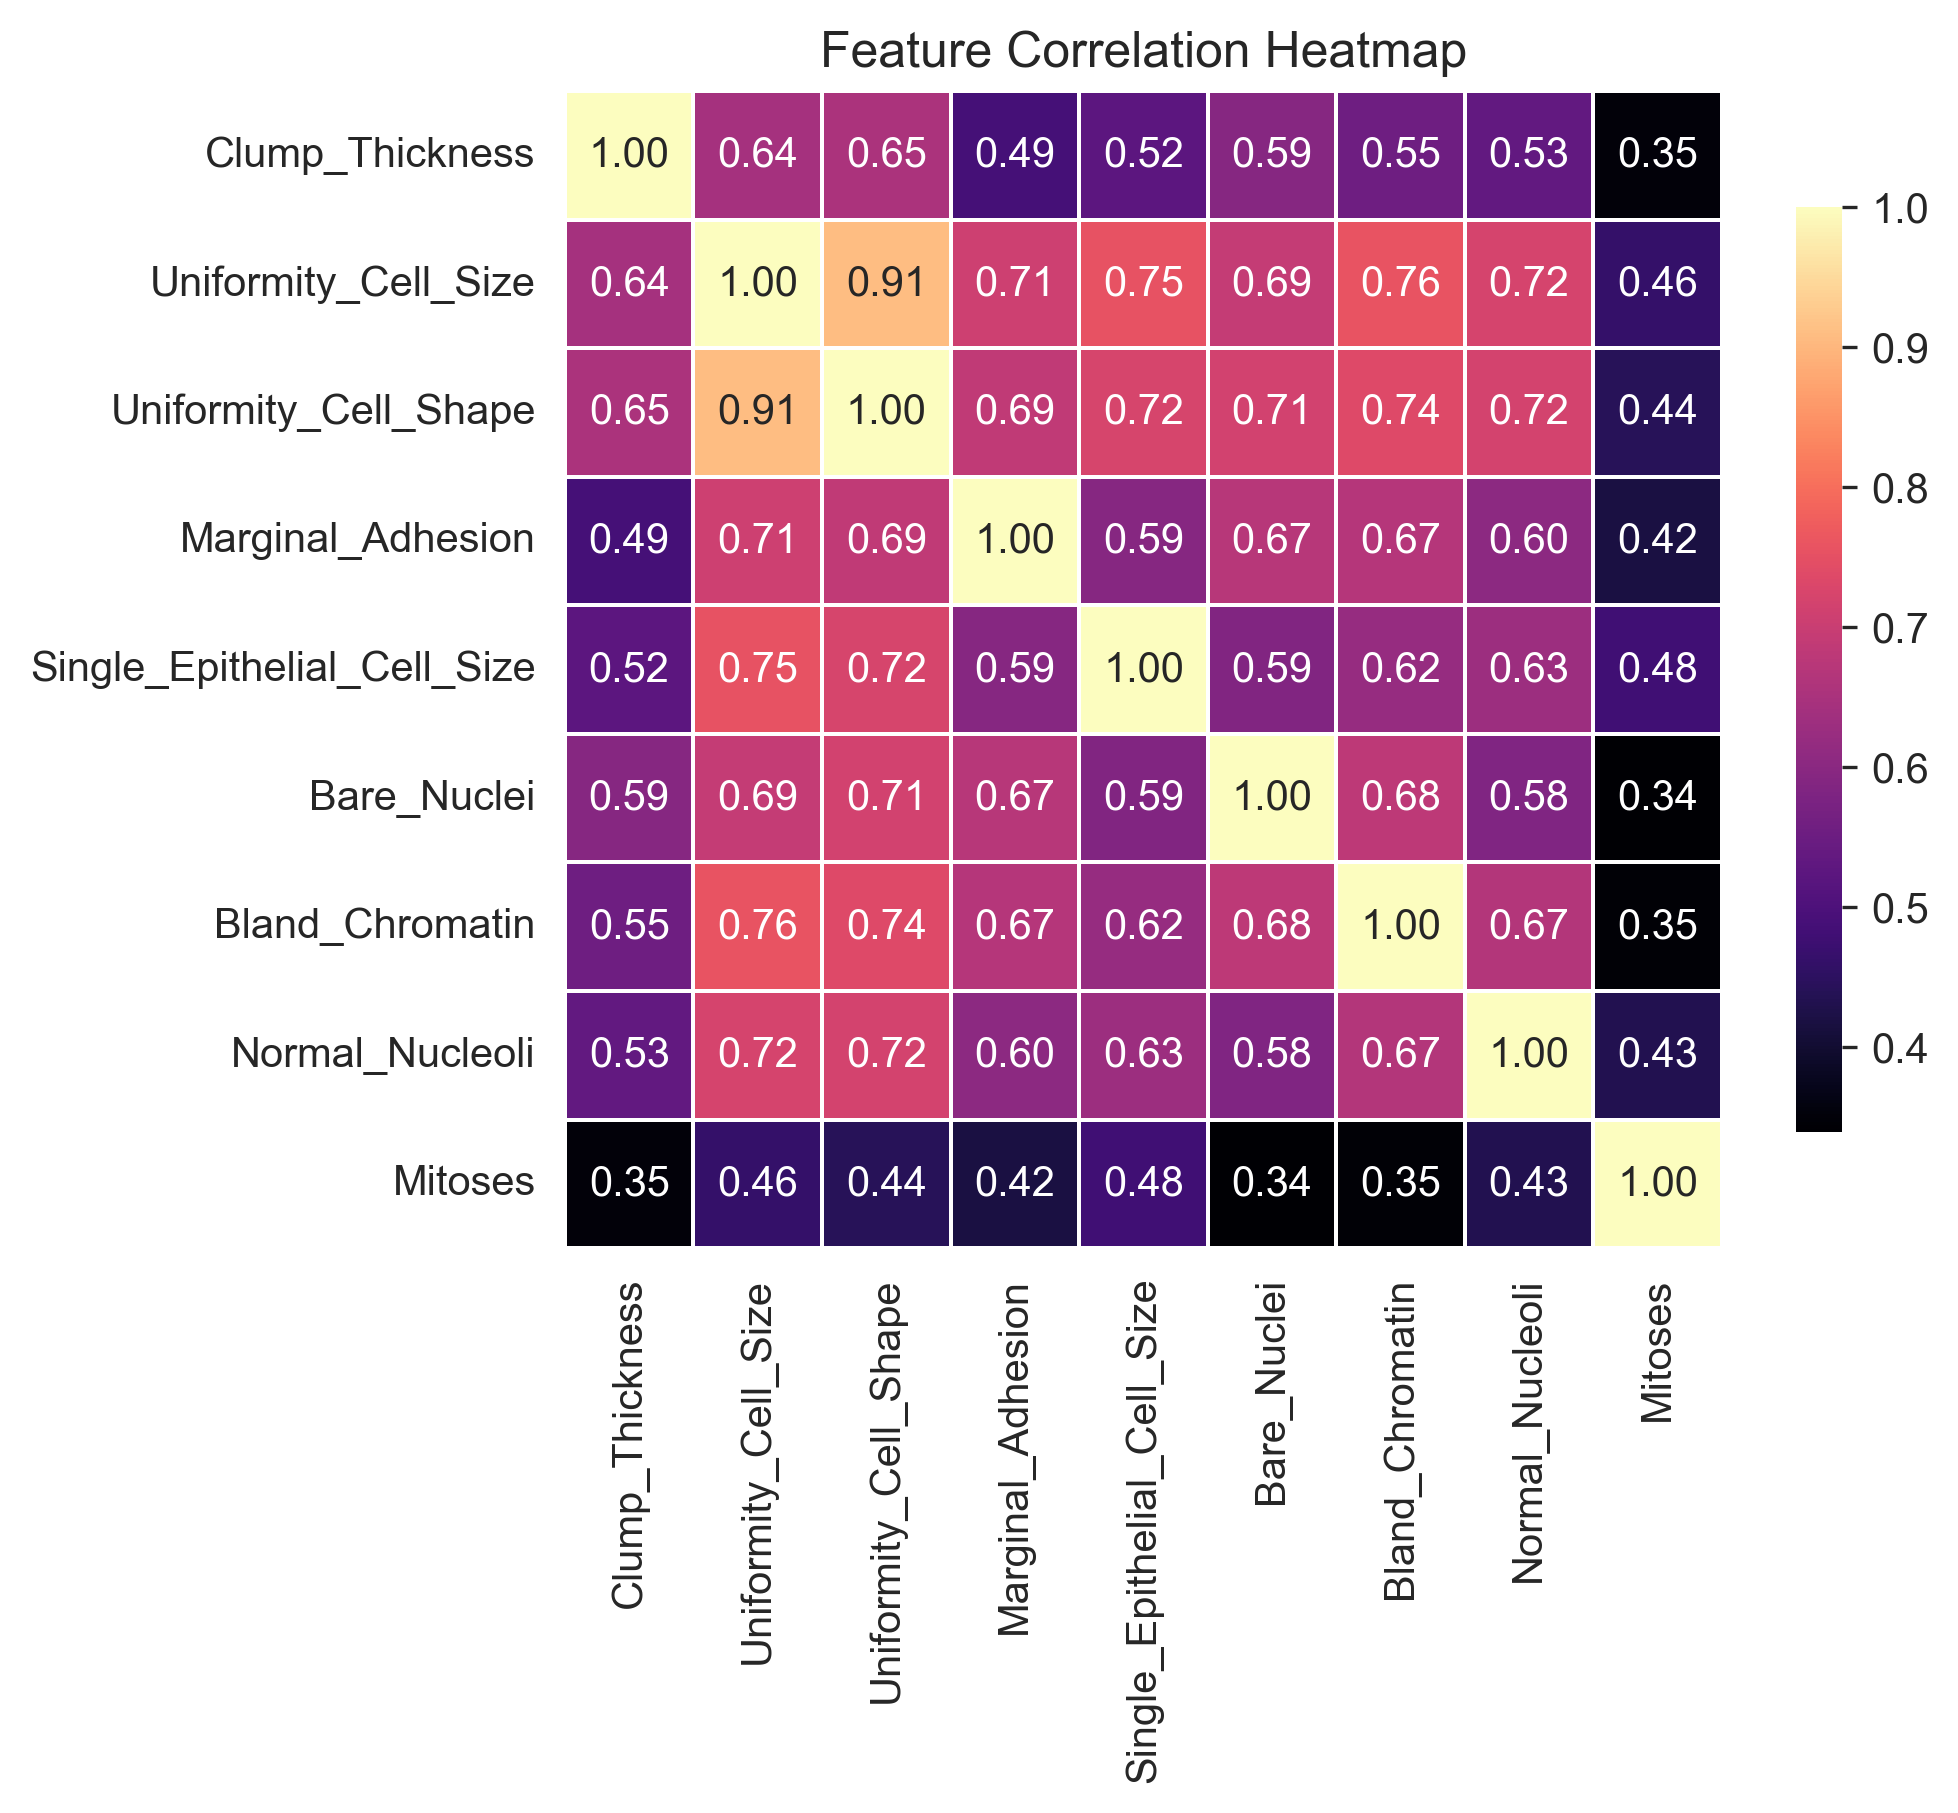
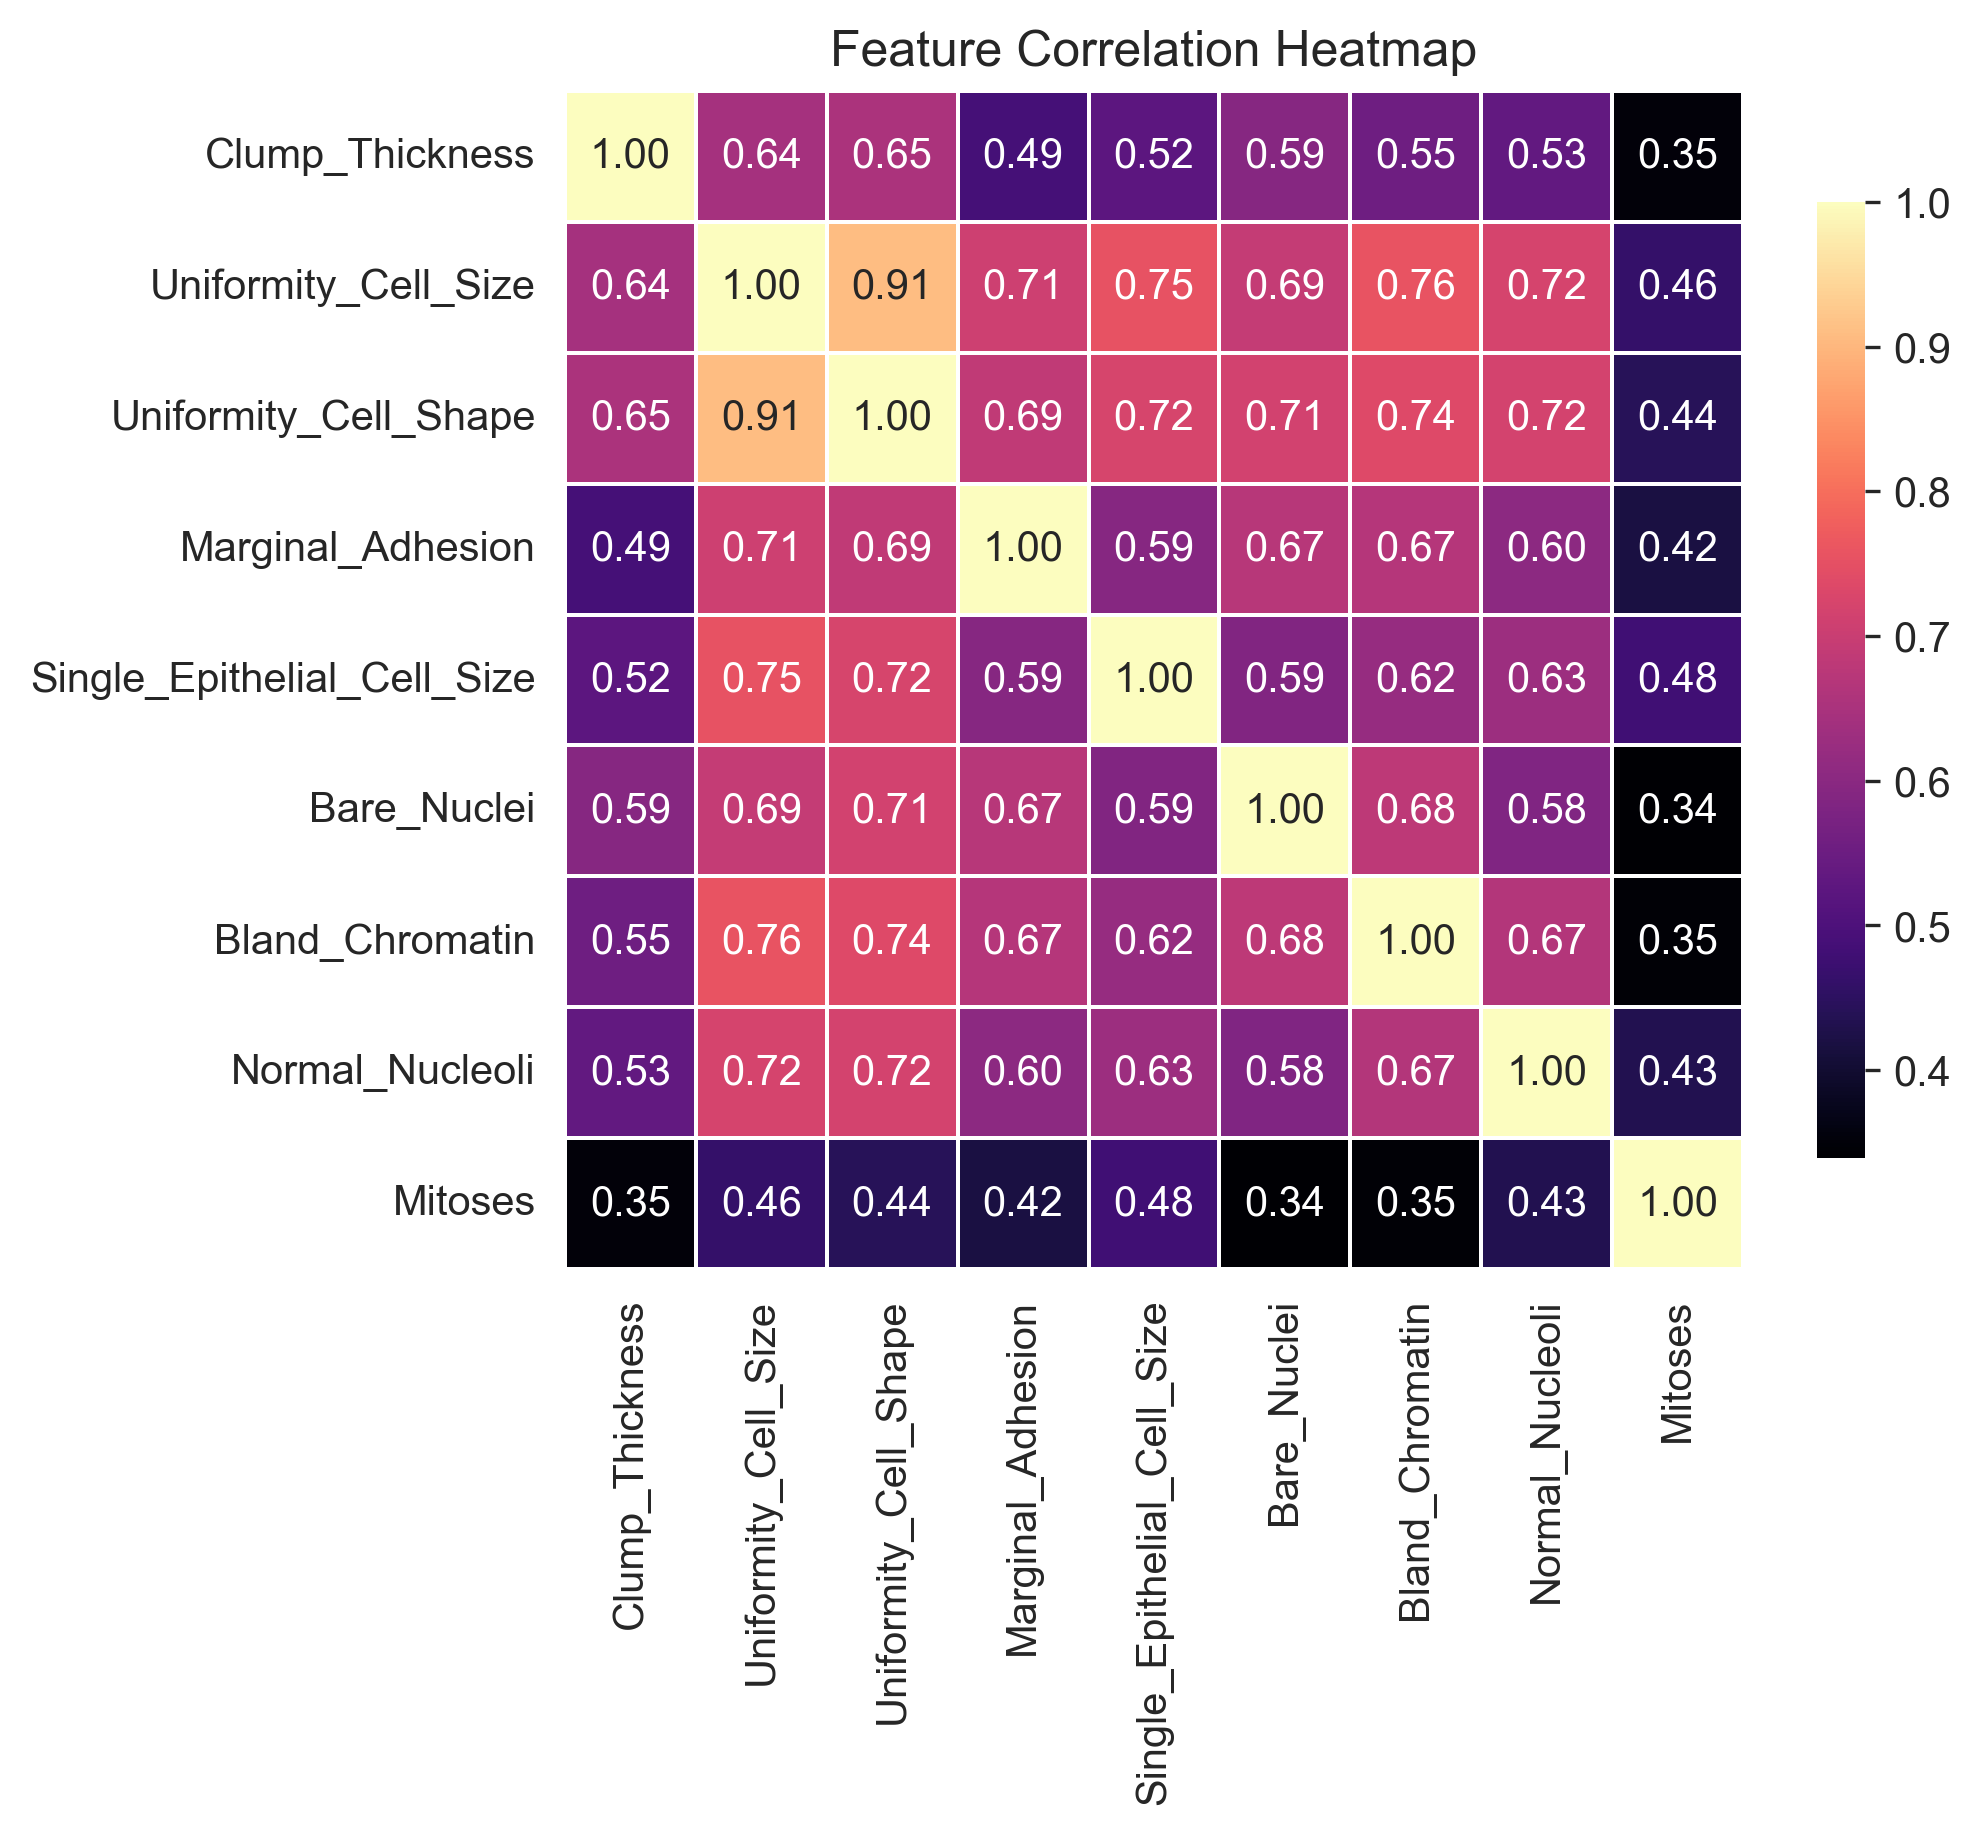
Heatmap code adjust

diff --git a/Src/eda_heatmap.py b/Src/eda_heatmap.py
@@ -34,11 +34,9 @@ update_df = df.drop(columns=["Sample_ID", "Class"])
 corr_matrix = update_df.corr()
 
 # Create figure with two panels: left for text, right for heatmap
-fig, heatmap_panel = plt.subplots(1, 1, figsize=(7, 6))
+plt.figure(figsize=(7, 6))
 
-plt.subplots_adjust(left=0.12, right=0.95, top=0.92, bottom=0.12)
-
-# Right heatmap panel (Pearson correlation matrix)
+# Heatmap - (Pearson correlation matrix)
 sns.heatmap(
     corr_matrix,
     annot=True,
@@ -47,9 +45,8 @@ sns.heatmap(
     square=True,
     linewidths=0.5,
     cbar_kws={"shrink": 0.8},
-    ax=heatmap_panel,
 )
-heatmap_panel.set_title("Feature Correlation Heatmap")
+plt.title("Feature Correlation Heatmap")
 
 plt.tight_layout()
 plt.savefig("Figures/FeatureCorrelationHeatmap.png", dpi=300, bbox_inches="tight")
